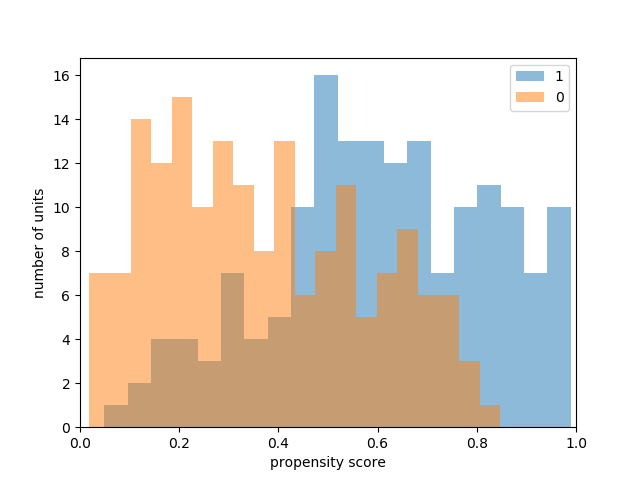
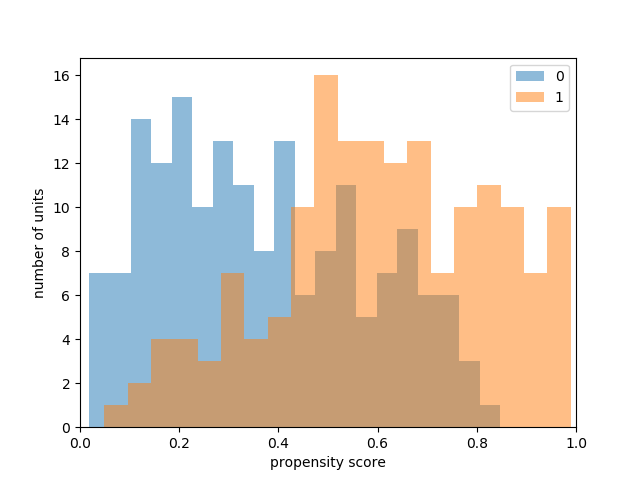
29.8

Changed region(s): [[0.125, 0.1562, 0.9062, 0.9062], [0.8438, 0.1875, 0.9062, 0.2188]]

diff --git a/causal_analysis.py b/causal_analysis.py
@@ -177,7 +177,7 @@ def plot_classes_propensity(data):
     :param data: Dataframe
     :return:None
     """
-    for label in data['score'].unique():
+    for label in sorted(data['score'].unique()):
         label_movies_propensity = data[data['score'] == label]["propensity"]
         plt.hist(label_movies_propensity, bins=20, label=label, alpha=0.5)
     plt.legend()
